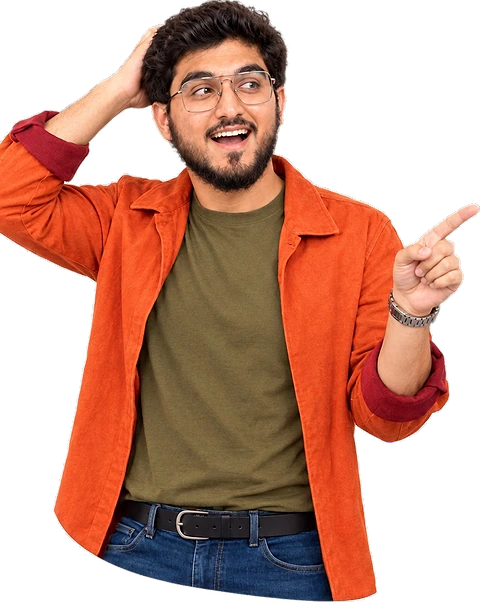
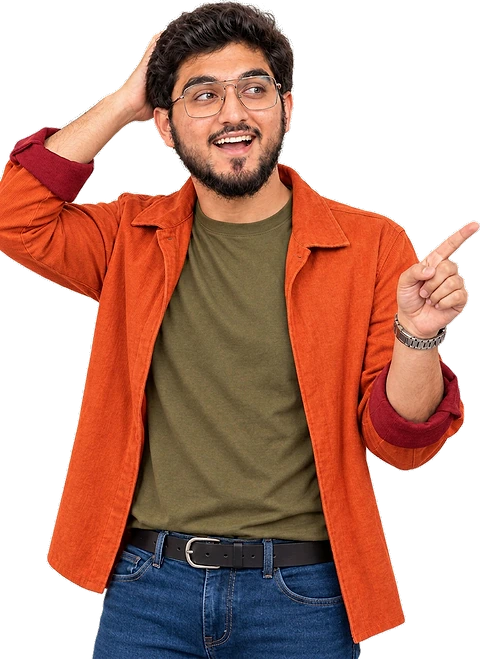
Retouched portraits; crawler files survive API cold starts
- Hero/About portraits from the new white-background photos (cut out, full
  resolution 816w / 840w, WebP q92, 480/768 variants)
- sitemap.xml, robots.txt and llms(-full).txt: Vercel CDN keeps a good copy
  (1h, stale-while-revalidate and stale-if-error 7 days), the function keeps its
  last good copy, and an unreachable API yields 503 + Retry-After instead of an
  HTML error, so Search Console no longer sees "Sitemap could not be read"
  when the free-tier API is asleep

diff --git a/projects/website/src/server.ts b/projects/website/src/server.ts
@@ -74,21 +74,49 @@ app.get(llmsAliases, (_req, res) => {
   res.redirect(301, '/llms.txt');
 });
 
-app.get([...crawlerFiles, indexNowKeyFile], async (req, res, next) => {
+/**
+ * The API runs on a free tier that sleeps: a cold start can outlast the serverless timeout, and Search
+ * Console then reports "Sitemap could not be read". So (1) Vercel's CDN keeps a good copy for an hour and
+ * serves it stale while revalidating / when the API errors, (2) this instance keeps its last good copy,
+ * and (3) with nothing to fall back on the answer is a 503 + Retry-After (crawlers retry), never HTML.
+ */
+const CRAWLER_CDN_CACHE = 'max-age=3600, stale-while-revalidate=604800, stale-if-error=604800';
+const UPSTREAM_TIMEOUT_MS = 25_000;
+const lastGood = new Map<string, { status: number; headers: [string, string][]; body: Buffer }>();
+
+app.get([...crawlerFiles, indexNowKeyFile], async (req, res) => {
+  const forwarded = ['content-type', 'cache-control', 'etag', 'location', 'x-robots-tag'];
   try {
     // Never follow upstream redirects: the visitor (or crawler) must see them itself.
     const upstream = await fetch(`${apiOrigin}${req.path}`, {
       redirect: 'manual',
-      headers: req.headers['if-none-match'] ? { 'If-None-Match': String(req.headers['if-none-match']) } : {},
+      signal: AbortSignal.timeout(UPSTREAM_TIMEOUT_MS),
     });
+    if (upstream.status >= 500) throw new Error(`upstream ${upstream.status}`);
+    const headers = forwarded
+      .map((name) => [name, upstream.headers.get(name)] as const)
+      .filter((pair): pair is [string, string] => pair[1] !== null);
+    const body = Buffer.from(await upstream.arrayBuffer());
+    if (upstream.status === 200) lastGood.set(req.path, { status: 200, headers, body });
+
     res.status(upstream.status);
-    for (const header of ['content-type', 'cache-control', 'etag', 'location', 'x-robots-tag']) {
-      const value = upstream.headers.get(header);
-      if (value) res.setHeader(header, value);
-    }
-    res.send(Buffer.from(await upstream.arrayBuffer()));
+    for (const [name, value] of headers) res.setHeader(name, value);
+    if (upstream.status === 200) res.setHeader('Vercel-CDN-Cache-Control', CRAWLER_CDN_CACHE);
+    res.send(body);
   } catch (err) {
-    next(err);
+    const cached = lastGood.get(req.path);
+    if (cached) {
+      res.status(cached.status);
+      for (const [name, value] of cached.headers) res.setHeader(name, value);
+      res.setHeader('Vercel-CDN-Cache-Control', 'max-age=60'); // retry the API soon
+      res.send(cached.body);
+      return;
+    }
+    console.warn(`[crawler-files] ${req.path}: API unavailable (${err instanceof Error ? err.message : 'error'})`);
+    res
+      .status(503)
+      .set({ 'Retry-After': '120', 'Cache-Control': 'no-store', 'Content-Type': 'text/plain; charset=utf-8' })
+      .send('Temporarily unavailable, please retry.');
   }
 });
 

diff --git a/projects/website/src/app/content/hero.content.ts b/projects/website/src/app/content/hero.content.ts
@@ -14,12 +14,12 @@ export const HERO_CONTENT = {
   stat: { value: '7+', label: 'Production Apps Shipped', rating: 5 },
   /** Transparent cut-out portrait (WebP/PNG). Leave the file out and the orange arc shows alone. */
   portrait: {
-    src: '/assets/images/portrait-894.webp',
-    /** The hero's LCP image: ~190-300 CSS px wide below lg, 426px from lg; 2x screens get the full 894px file. */
-    srcset: '/assets/images/portrait-480.webp 480w, /assets/images/portrait-768.webp 768w, /assets/images/portrait-894.webp 894w',
+    src: '/assets/images/portrait-816.webp',
+    /** The hero's LCP image: ~190-300 CSS px wide below lg, 426px from lg; 2x screens get the full 816px file. */
+    srcset: '/assets/images/portrait-480.webp 480w, /assets/images/portrait-768.webp 768w, /assets/images/portrait-816.webp 816w',
     sizes: '(min-width: 1024px) 426px, calc(6.25rem + 25vw)',
     alt: 'Muhammad Asif',
-    width: 894,
-    height: 1429,
+    width: 816,
+    height: 1304,
   },
 } as const;

diff --git a/projects/website/src/app/content/about.content.ts b/projects/website/src/app/content/about.content.ts
@@ -48,12 +48,12 @@ export const ABOUT_CONTENT = {
   ],
   /** Its own waist-up image (the hero uses the full-length cut-out). Replace the file to use another photo. */
   portrait: {
-    src: '/assets/images/about-portrait-842.webp',
+    src: '/assets/images/about-portrait-840.webp',
     /** Rendered at most 408 CSS px wide (.about__portrait), so 1x screens get the 320px file. */
-    srcset: '/assets/images/about-portrait-480.webp 480w, /assets/images/about-portrait-842.webp 842w',
+    srcset: '/assets/images/about-portrait-480.webp 480w, /assets/images/about-portrait-768.webp 768w, /assets/images/about-portrait-840.webp 840w',
     sizes: '(min-width: 440px) 408px, calc(100vw - 2rem)',
     alt: 'Portrait of Muhammad Asif',
-    width: 842,
-    height: 1056,
+    width: 840,
+    height: 1154,
   },
 } as const;
